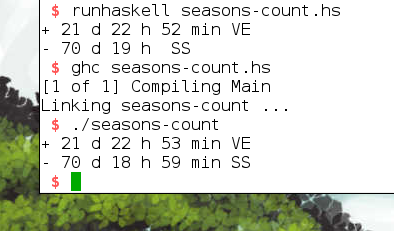
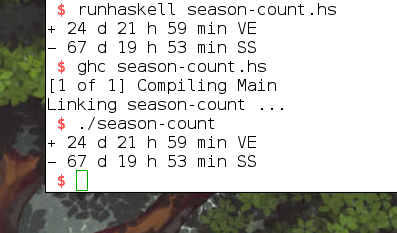
season-count #4

diff --git a/making-of.md b/making-of.md
@@ -3,7 +3,7 @@
 Our goal: to show a calendar with day-count from and to nearest equinox or solstice.
 
 ```
- $ ./seasons-count 
+ $ ./season-count 
 + 23 d 14 h 37 min VE
 − 69 d 3 h 15 min SS
 ```
@@ -93,9 +93,9 @@ $ runhaskell parse-list-to-tuples.hs
 ...
 ```
 
-We copy it into the end of file `seasons-count.hs`.
+We copy it into the end of file `season-count.hs`.
 
-## seasons-count
+## season-count
 
 Get current time in POSIXTime
 
@@ -141,13 +141,13 @@ ptEntry pt =
 
 ```
  $ PS1="\[\033[01;31m\] $ \[\033[00m\]"
- $ runhaskell seasons-count.hs
+ $ runhaskell season-count.hs
 + 23 d 14 h 20 min VE
 − 69 d 3 h 32 min SS
- $ ghc seasons-count.hs
-[1 of 1] Compiling Main             ( seasons-count.hs, seasons-count.o )
-Linking seasons-count ...
- $ ./seasons-count 
+ $ ghc season-count.hs
+[1 of 1] Compiling Main             ( season-count.hs, season-count.o )
+Linking season-count ...
+ $ ./season-count 
 + 23 d 14 h 20 min VE
 − 69 d 3 h 32 min SS
 ```

diff --git a/guide.md b/guide.md
@@ -141,13 +141,13 @@ ptEntry pt =
 
 ```
  $ PS1="\[\033[01;31m\] $ \[\033[00m\]"
- $ runhaskell seasons-count.hs
+ $ runhaskell season-count.hs
 + 23 d 14 h 20 min VE
 − 69 d 3 h 32 min SS
- $ ghc seasons-count.hs
-[1 of 1] Compiling Main             ( seasons-count.hs, seasons-count.o )
-Linking seasons-count ...
- $ ./seasons-count 
+ $ ghc season-count.hs
+[1 of 1] Compiling Main             ( season-count.hs, season-count.o )
+Linking season-count ...
+ $ ./season-count 
 + 23 d 14 h 20 min VE
 − 69 d 3 h 32 min SS
 ```

diff --git a/README.md b/README.md
@@ -1,2 +1,6 @@
 # season-count
 Some equinox and solstice countdown calculations
+
+![season-count-xfce-generic-monitor.png](season-count-xfce-generic-monitor.png)
+
+Instructions: [guide.md](guide.md)
